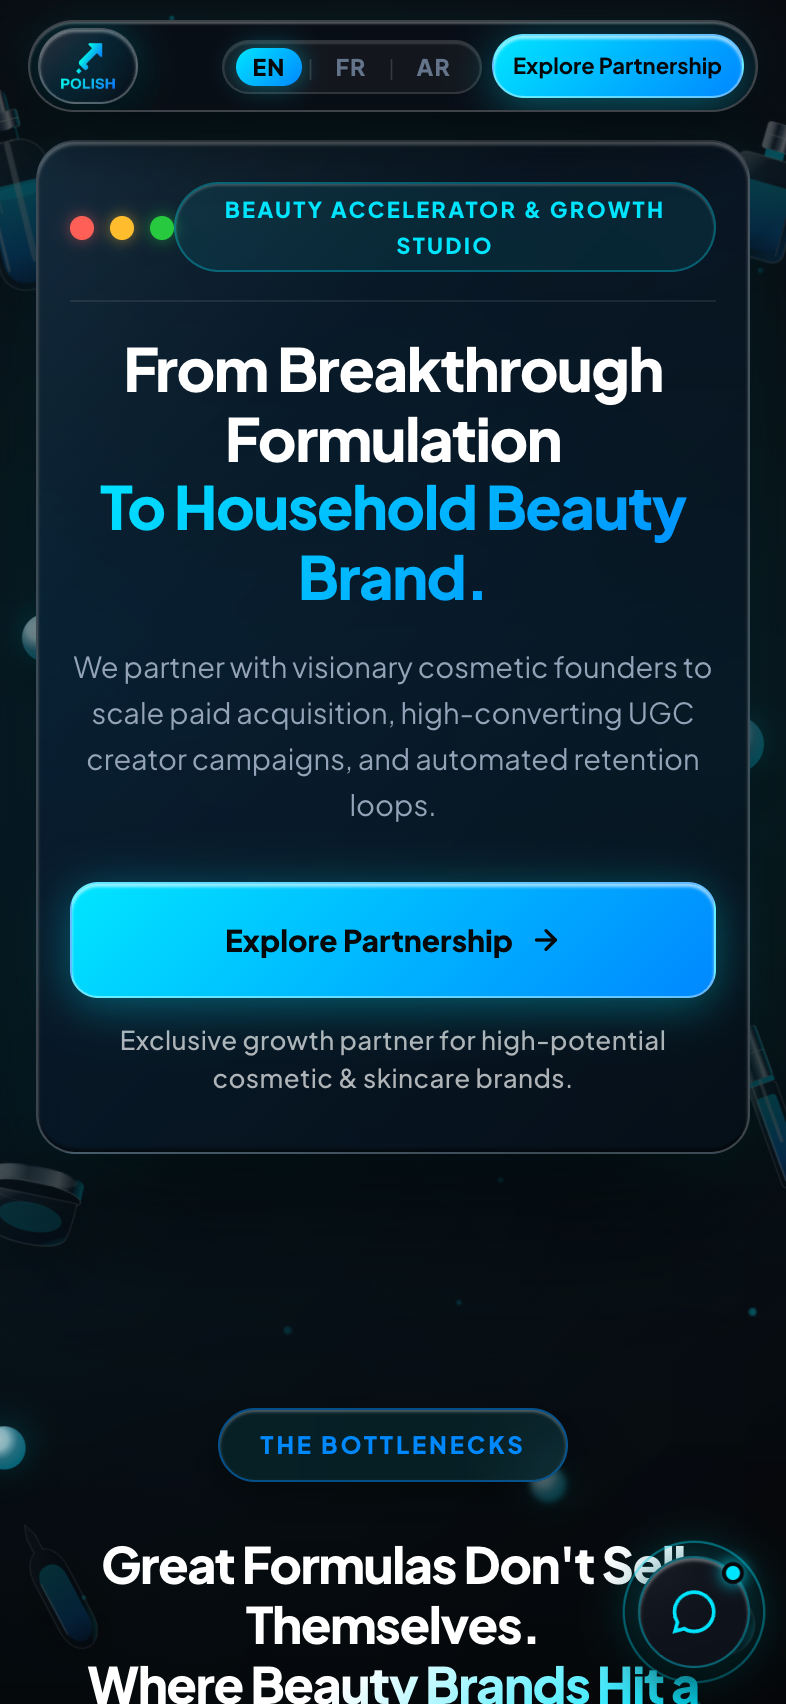
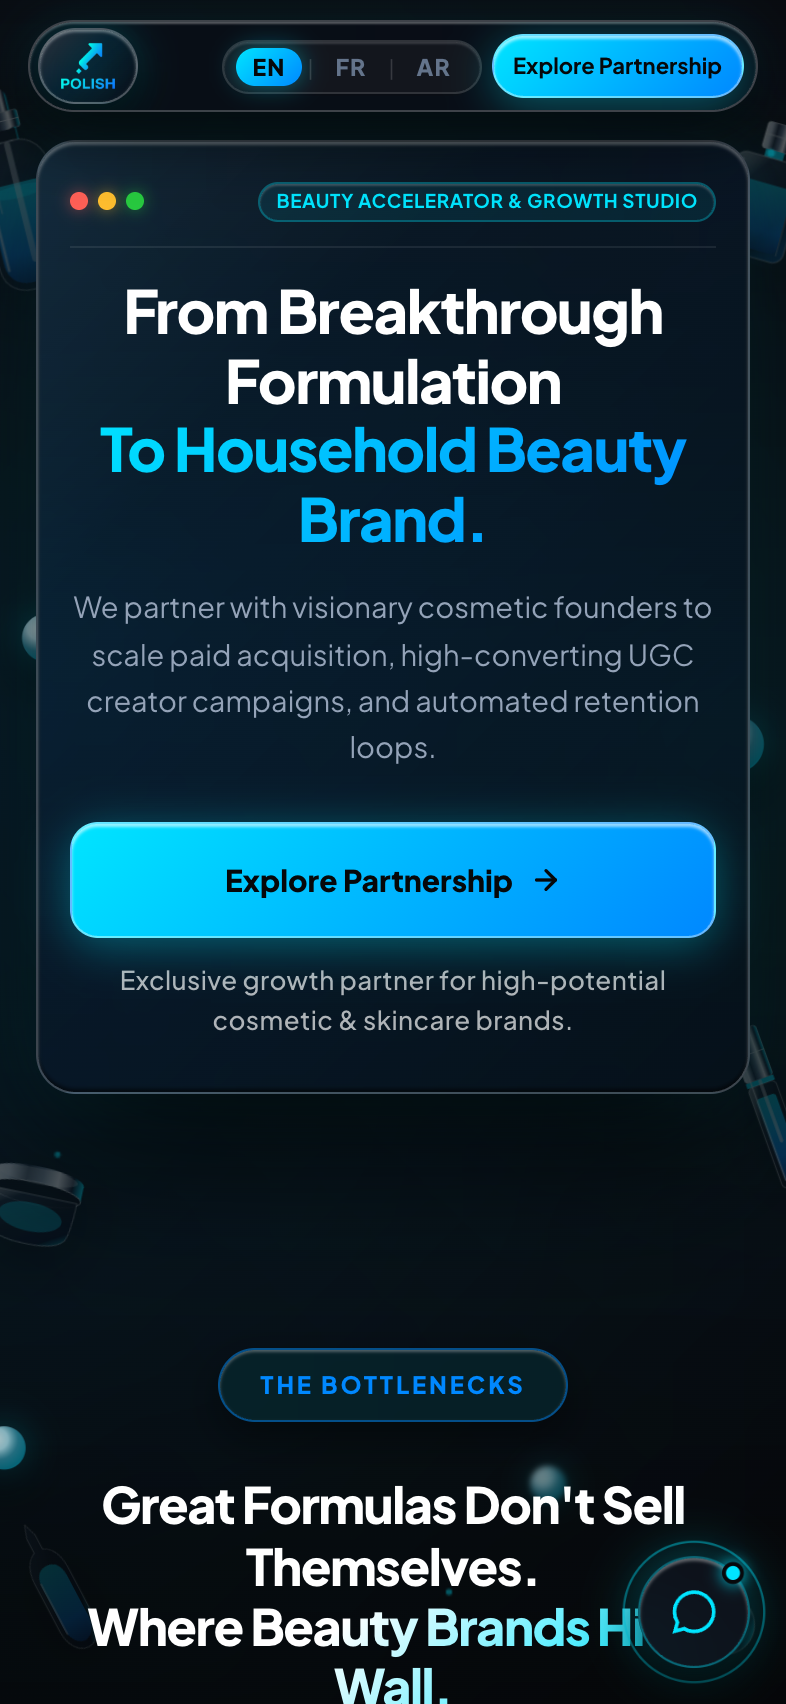
fix: calibrate upper topbar pill dimensions to fit inside container across all mobile views

diff --git a/public/css/style.css b/public/css/style.css
@@ -1416,15 +1416,19 @@ a {
 }
 
 .glass-pill-tag {
-  font-size: 11px;
-  font-weight: 800;
-  letter-spacing: 0.1em;
+  font-size: 10.5px;
+  font-weight: 700;
+  letter-spacing: 0.04em;
   color: var(--brand-cyan);
   background: rgba(0, 229, 255, 0.08);
-  border: 1px solid rgba(0, 229, 255, 0.3);
+  border: 1px solid rgba(0, 229, 255, 0.28);
   padding: 4px 10px;
   border-radius: var(--radius-pill);
   box-shadow: inset 0 1px 1px rgba(255, 255, 255, 0.2);
+  display: inline-flex;
+  align-items: center;
+  max-width: 100%;
+  line-height: 1.25;
 }
 
 /* ==========================================================================
@@ -1513,11 +1517,40 @@ a {
     margin-bottom: 16px;
   }
   .glass-card-topbar {
-    padding-bottom: 14px;
-    margin-bottom: 16px;
+    display: flex;
+    align-items: center;
+    justify-content: space-between;
+    gap: 8px;
+    padding-bottom: 12px;
+    margin-bottom: 14px;
+    border-bottom: 1px solid rgba(255, 255, 255, 0.08);
+    min-width: 0;
+  }
+  .mac-dots {
+    flex-shrink: 0;
+    gap: 5px;
+  }
+  .mac-dots span {
+    width: 9px;
+    height: 9px;
   }
   .glass-card-domain {
     display: none;
+  }
+  .glass-pill-tag {
+    font-size: 9.5px;
+    font-weight: 700;
+    letter-spacing: 0.03em;
+    padding: 3px 8px;
+    border-radius: var(--radius-pill);
+    max-width: 78%;
+    white-space: normal;
+    text-align: right;
+    line-height: 1.25;
+    flex-shrink: 1;
+  }
+  [dir="rtl"] .glass-pill-tag {
+    text-align: left;
   }
 
   /* Typography Sizing */
@@ -1798,6 +1831,11 @@ a {
   }
   .hero-h1 {
     font-size: 24px;
+  }
+  .glass-pill-tag {
+    font-size: 8.5px;
+    padding: 2px 6px;
+    max-width: 74%;
   }
 }
 
